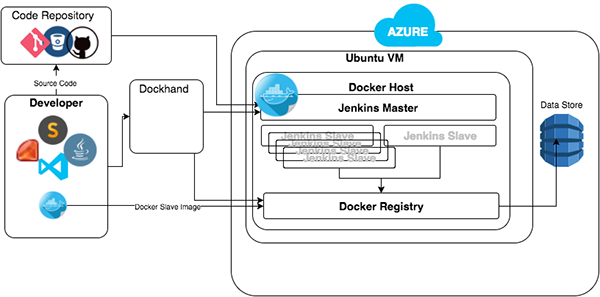
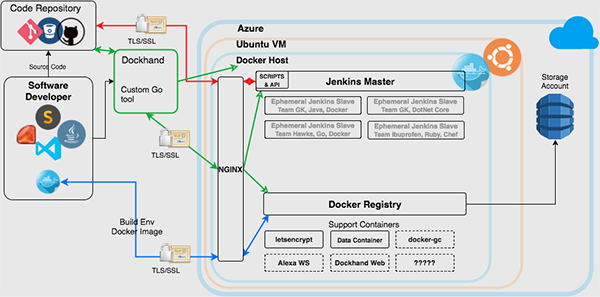
working on blog post ABS 01

diff --git a/_drafts/automated-build-system-docker-in-azure.md b/_drafts/automated-build-system-docker-in-azure.md
@@ -13,25 +13,40 @@ tags: [jenkins, cd, ci, docker, azure, riot games]
 ### Introduction
 Welcome to part one of my Automated Build System (ABS) series. Where we are building a fully functional, hands-off build system using Docker and Jenkins... all in Azure. 
 
-If you would like an overview and some background please see my introduction video or blog post.
+* [Part 0: Introduction]({% post_url 2016-10-06-automated-build-system-docker-jenkins-azure-go-intro %})
+* Part 1: Docker in a VM in Azure
+* Part 2: Jenkins and Ephemeral Slave Nodes in Docker in Azure
+* Part 3: Secure Private Docker Registry in Azure and Securing Jenkins
+* Part 4: Scripting Jenkins and the Jenkins API
+* Part 5: Creating Dockhand with Go (the self-service build environment tool)
+* Part 6: Using the system. A simple DotNetCore app   
 
 In this first installment we will be setting up Docker in Azure on a Linux VM. Of course, there are several ways to accomplish this and I'm only going to walk through one possible solution in this tutorial. After we get this system up and running smoothly, I will explore other options for setting up the base system such as using the Azure command line interface (CLI).
 
 I know Microsoft recently announced that Windows Server 2016 will include Docker, and that is awesome! I'm very excited about Docker being truly cross-platform. After we get this build system running smoothly in Linux I will explore expanding the system to include Windows. 
 
-### Adding an Ubuntu VM to Azure
-Head over to the [Azure portal](http://portal.azure.com). We can click the New button and  if we search for Docker several options appear; Docker on Ubuntu seems like the obvious choice since that is ultimately what we are trying to setup. Unfortunately it's not that simple, one problem is that only allows you to select the classic deployment model and also doesn't set up Docker for TLS and secure communication. Sure we can live with the classic model and we can configure secure Docker ourselves, but there is a better option. Let's go back and search for Ubuntu and choose the latest LTS release currently 16.04. 
+Here is a diagram of what we will have at the end of this tutorial:
 
+[![build system diagram](/assets/buildSystem_01_small.png)](/assets/buildSystem_01.png)
+
+It may not look like much but it's the foundation for the system we are going to build. 
+
+The video tutorial:
+<iframe width="560" height="315" src="https://www.youtube.com/embed/P7dGzLa4BHY" frameborder="0" allowfullscreen></iframe>
+<br/>
+
+### Adding an Ubuntu VM to Azure
+Head over to the [Azure portal](http://portal.azure.com). Click the New button in the left tray, search for Docker and several options appear; Docker on Ubuntu seems like the obvious choice since that is ultimately what we are trying to setup. Unfortunately it's not that simple, one problem is that only allows you to select the classic deployment model and also doesn't set up Docker for TLS and secure communication. Sure we can live with the classic model and we can configure secure Docker ourselves, but there is a better option. 
+
+Go back and search for Ubuntu and click the latest LTS release, currently 16.04. 
 
 Make sure the Deployment model is Resource Manager and click Create.
-
-<<screenshot>>
 
 I am going to name this VM *dockerBuild*
 
 One thing to note here is that you can save some money if you choose HDD - magnetic disks instead of solid state drives. Choosing HDD here opens up possibility so of cheaper plans which we will see in the next step. 
 
-Our admin user will be dockerUser and we are going to use SSH public/private keys to communicate and not username/password.
+Our admin user will be dockerUser and we are going to use SSH public/private keys to authenticate and not username/password.
 
 ### Creating SSH keys
 Open a terminal to create the public/private key pair. The C flag is just a comment - it's appended onto the end of the public key and it will serve as a reminder of what this keypair is for. We're not going to add a passphrase and we are going to name the files so that we have a clue as to what they are for ~/.ssh/id_dockerbuild_rsa.
@@ -414,7 +429,12 @@ docker images
 
 There all cleaned up, nice and tidy. 
 
-## Conclusion and Next Steps
+### Conclusion and Next Steps
 We now have docker running securely in a VM in Azure. Pretty cool and pretty simple but this is teh foundation of our Automated Build system so it was important to get it setup correctly. 
 
 In the next installment we really get to the meat of our automated build system, using our own custom images for our Jenkins master, setting up ephemeral Jenkins slave nodes - what I mean by that is Jenkins will spin up docker containers as build environments that only get started when a build job needs them, so if you need a Java build environment or a dotnet core environment, Jenkins will start start a Docker container to handle your build! Exciting stuff! See you soon...
+
+### Resources
+
+
+Video: https://youtu.be/P7dGzLa4BHY
